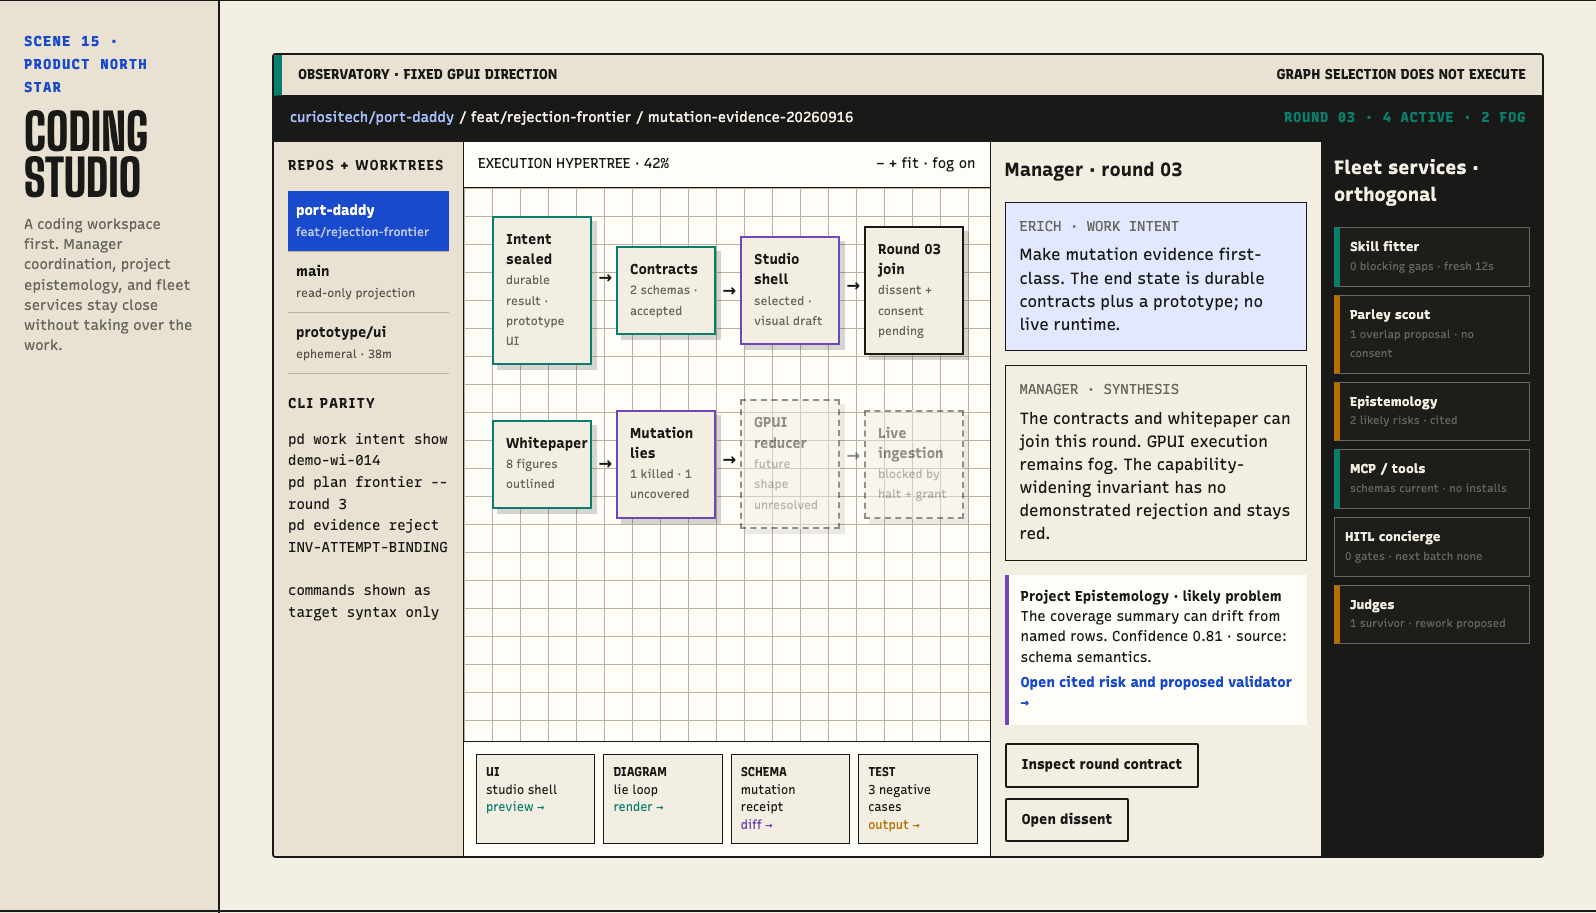
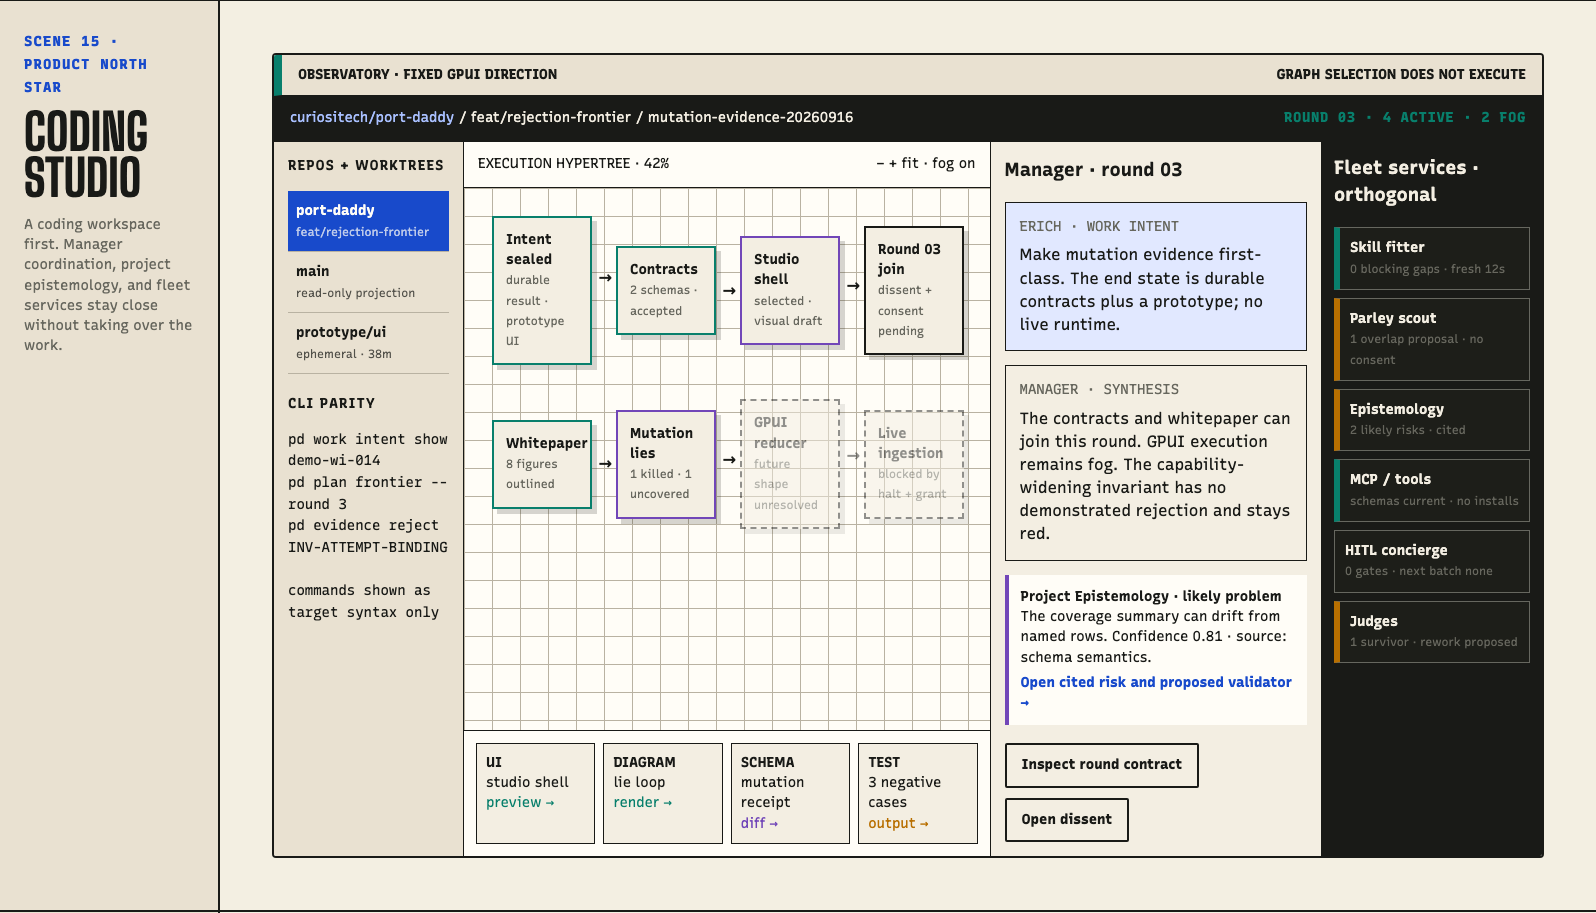
fix: bind mutation coverage to validator identity

Changed region(s): [[0.8289, 0.2453, 0.9518, 0.736], [0.307, 0.7974, 0.614, 0.92]]

diff --git a/tests/unit/agent-harbor-contracts.test.js b/tests/unit/agent-harbor-contracts.test.js
@@ -686,7 +686,7 @@ describe('agent-harbor v0 schema package', () => {
     expect(validate(schema, broken).some((error) => error.includes('more than maxItems 0'))).toBe(true);
   });
 
-  it('binds rejection coverage to the exact subsystem, invariant, subject, and named-row totals', () => {
+  it('binds rejection coverage to the exact subsystem, invariant, subject, validator, tests, contract, and named-row totals', () => {
     const receipt = loadFixture('porthole-mutation-receipt');
     const coverage = loadFixture('porthole-rejection-coverage');
 
@@ -697,6 +697,21 @@ describe('agent-harbor v0 schema package', () => {
     wrongInvariant.claims[0].invariantId = 'INV-OTHER';
     expect(checkPortholeRejectionCoverage(wrongInvariant, [receipt]))
       .toContain('mutation receipt mutation_receipt_attempt_substitution_01 belongs to another invariant');
+
+    const obsoleteValidator = structuredClone(coverage);
+    obsoleteValidator.validatorArtifactDigest = `sha256:${'9'.repeat(64)}`;
+    expect(checkPortholeRejectionCoverage(obsoleteValidator, [receipt]))
+      .toContain('mutation receipt mutation_receipt_attempt_substitution_01 belongs to another validator artifact digest');
+
+    const obsoleteTests = structuredClone(coverage);
+    obsoleteTests.testBundleDigest = `sha256:${'8'.repeat(64)}`;
+    expect(checkPortholeRejectionCoverage(obsoleteTests, [receipt]))
+      .toContain('mutation receipt mutation_receipt_attempt_substitution_01 belongs to another test bundle digest');
+
+    const obsoleteContract = structuredClone(coverage);
+    obsoleteContract.contractRef = 'schemas/obsolete-contract.schema.json';
+    expect(checkPortholeRejectionCoverage(obsoleteContract, [receipt]))
+      .toContain('mutation receipt mutation_receipt_attempt_substitution_01 belongs to another contract');
 
     const driftedSummary = structuredClone(coverage);
     driftedSummary.summary.demonstratedCount = 0;

diff --git a/docs/design/drydock-operator-journeys/index.html b/docs/design/drydock-operator-journeys/index.html
@@ -449,11 +449,11 @@
     .graph-node strong, .service-card strong { display: block; }
     .graph-node small, .service-card small { color: var(--muted); }
     .artifact-strip { display: grid; grid-template-columns: repeat(4, 1fr); gap: 8px; padding: 12px; border-top: 1px solid var(--ink); }
-    .artifact-thumb { min-height: 74px; padding: 9px; border: 1px solid var(--ink); background: var(--paper); font-family: var(--mono); font-size: 12px; }
+    .artifact-thumb { min-height: 74px; padding: 9px; border: 1px solid var(--ink); background: var(--paper); font-family: var(--mono); font-size: 14px; }
     .manager-pane { padding: 14px; background: var(--paper); }
     .manager-pane .turn { max-width: 100%; }
     .service-rail { padding: 12px; background: var(--ink); color: var(--paper); }
-    .service-card { padding: 10px; margin-bottom: 8px; border: 1px solid #66675f; background: #1d1e19; font-size: 13px; }
+    .service-card { padding: 10px; margin-bottom: 8px; border: 1px solid #66675f; background: #1d1e19; font-size: 14px; }
     .service-card.alert { border-left: 6px solid var(--amber); }
     .service-card.good-service { border-left: 6px solid var(--teal); }
     .coverage-grid { display: grid; grid-template-columns: minmax(0, 1.1fr) minmax(300px, .9fr); gap: 16px; }

diff --git a/tests/unit/agent-harbor-governance.test.js b/tests/unit/agent-harbor-governance.test.js
@@ -92,7 +92,9 @@ const TOP_LEVEL_AGENT_HARBOR_SCHEMAS = [
   'porthole-completeness-receipt',
   'porthole-control-lease',
   'porthole-disclosure-receipt',
+  'porthole-mutation-receipt',
   'porthole-perspective',
+  'porthole-rejection-coverage',
   'porthole-regression-receipt',
   'porthole-stage',
   'porthole-stage-event',
